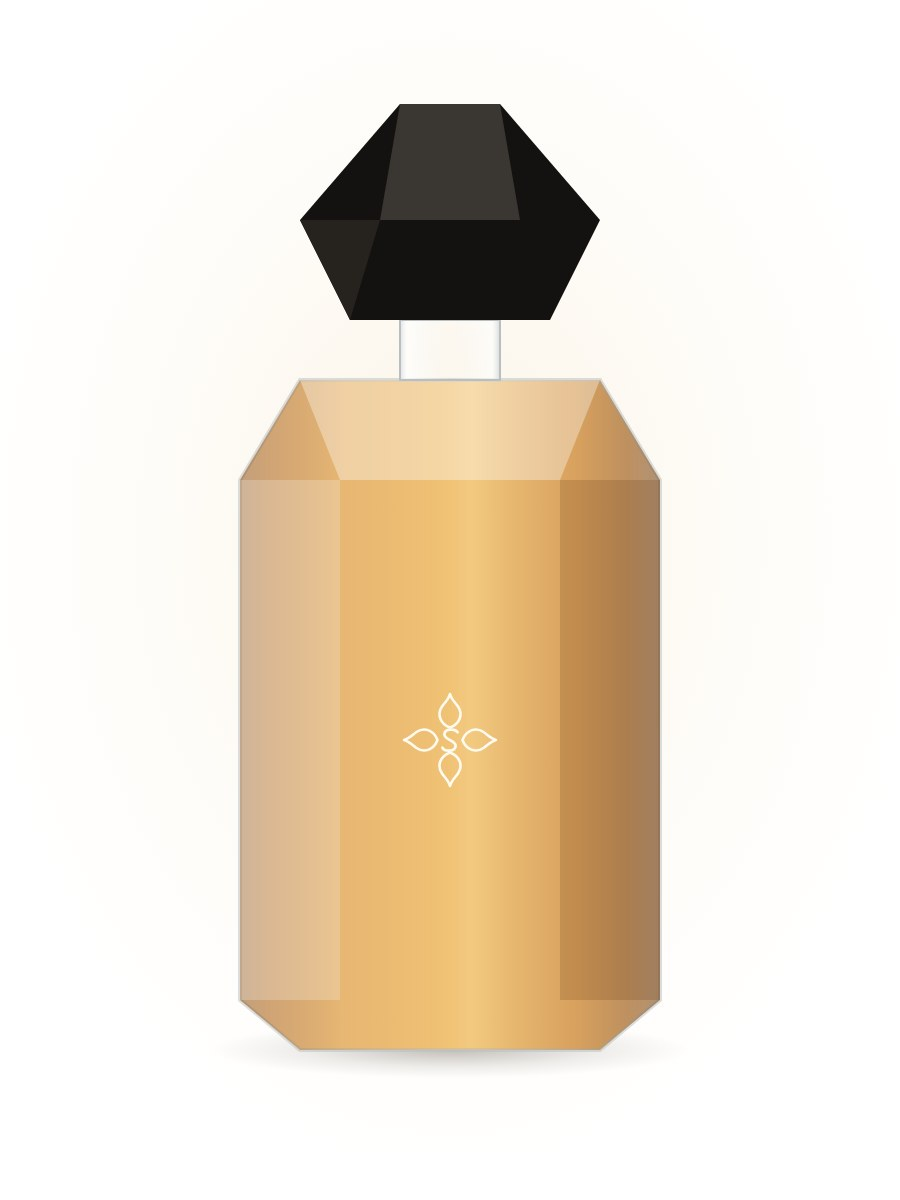
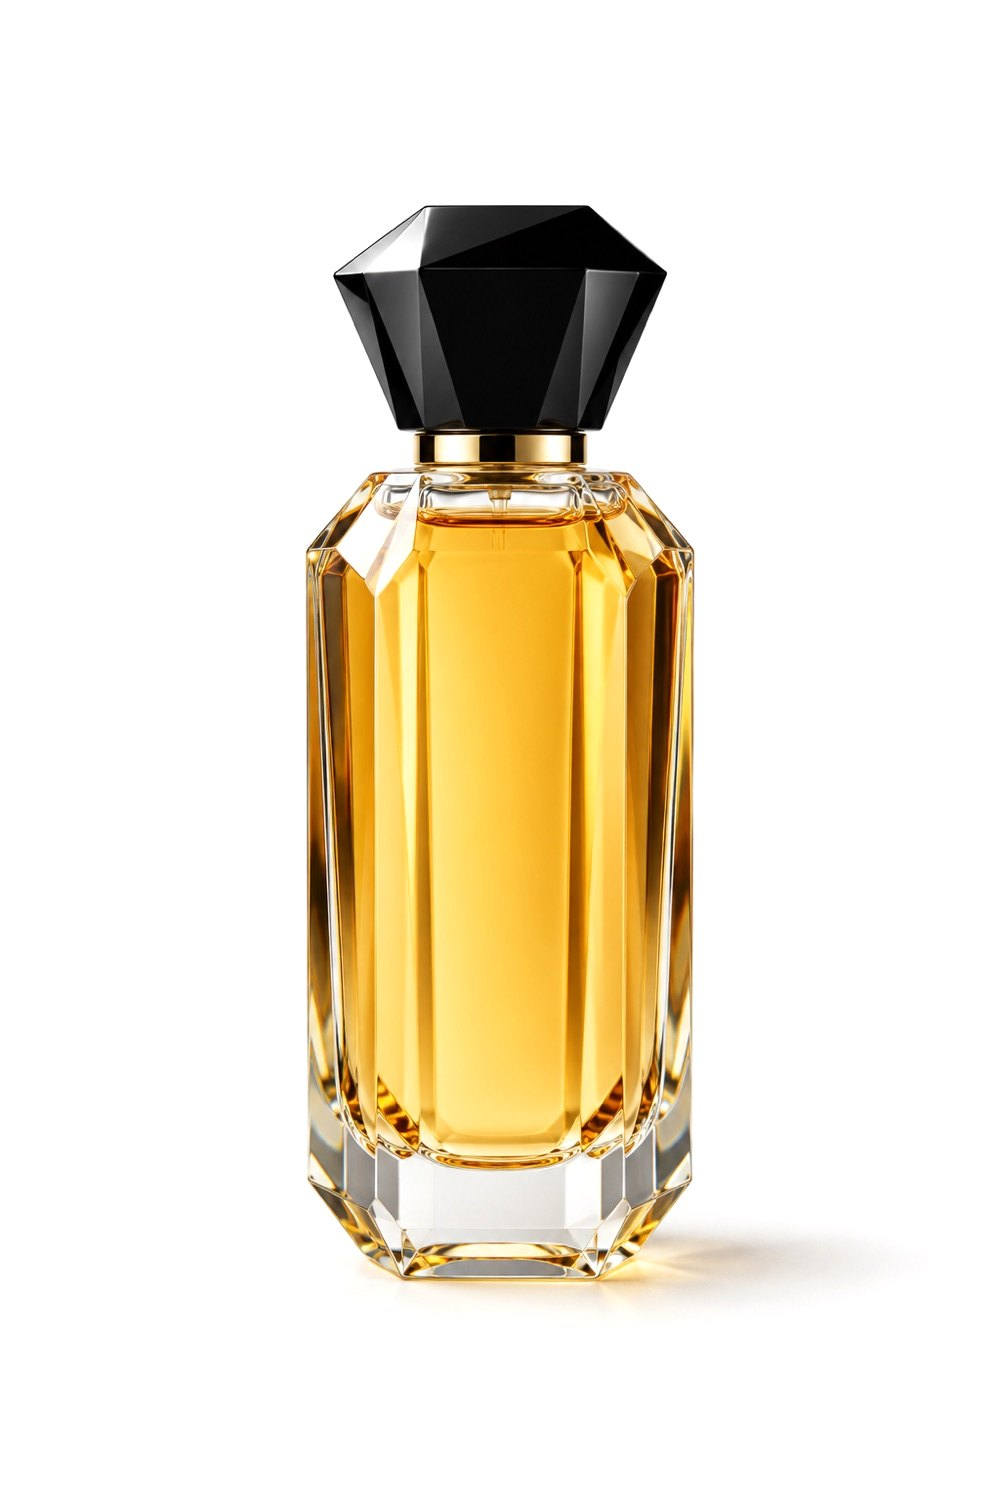
Photorealistic imagery: AI studio photography replaces drawn art
- Hero, kit, botanicals, bottles, emboss, textures and all kit tools are now
  photorealistic white-background product shots (generated via Figma MCP,
  gpt-image model), plus an atelier lifestyle shot for the Lab section
- Accord bottles print each accord name onto the photographed blank label
- Editorial layout: open columns, borderless photo tiles, real bottles in
  My Creations, photos blended into the white page (scripts/whiten.mjs)

Changed region(s): [[0.2489, 0.0617, 0.84, 0.8942]]

diff --git a/src/data/catalogue.ts b/src/data/catalogue.ts
@@ -55,14 +55,14 @@ export const PRODUCTS: Product[] = [
   { id: "bot-cedar", name: "Cedarwood chips", category: "botanicals", packSize: "20 g pouch", priceInr: 139, description: "Exploration-only sample for smelling and learning.", image: `${IMG}cedarwood.jpg`, imageAlt: "Cedarwood chips" },
   { id: "bot-rose", name: "Dried rose petals", category: "botanicals", packSize: "10 g pouch", priceInr: 149, description: "Exploration-only sample for smelling and learning.", image: `${IMG}rose-petals.jpg`, imageAlt: "Dried rose petals" },
   { id: "bot-cinnamon", name: "Cinnamon sticks", category: "botanicals", packSize: "6 quills", priceInr: 119, description: "Exploration-only sample for smelling and learning.", image: `${IMG}cinnamon.jpg`, imageAlt: "Cinnamon sticks" },
-  { id: "tool-pipettes", name: "Transfer pipettes", category: "tools", packSize: "Pack of 20", priceInr: 99, description: "Single-use transfer pipettes for guided exercises.", imageAlt: "Transfer pipettes", art: "pipettes" },
-  { id: "tool-blotters", name: "Blotter strips", category: "tools", packSize: "Pack of 50", priceInr: 89, description: "Smelling strips for evaluating on paper, not skin.", imageAlt: "Blotter strips", art: "blotters" },
-  { id: "tool-vials", name: "Mixing vials", category: "tools", packSize: "Set of 6", priceInr: 149, description: "Small glass vials with caps for organising samples.", imageAlt: "Mixing vials", art: "vials" },
-  { id: "tool-journal", name: "Formula journal", category: "tools", packSize: "64 pages", priceInr: 199, description: "Linen-bound journal for discovery notes.", imageAlt: "Formula journal", art: "journal" },
-  { id: "tool-beaker", name: "Measuring beaker, 10 ml", category: "tools", packSize: "Glass, graduated", priceInr: 129, description: "Read volumes in guided exercises.", imageAlt: "Measuring beaker", art: "beaker" },
-  { id: "tool-funnel", name: "Filling funnel", category: "tools", packSize: "Set of 2", priceInr: 59, description: "Fits the neck of the 10 ml bottles.", imageAlt: "Filling funnel", art: "funnel" },
-  { id: "bottle-pebble-10", name: "Pebble bottle, 10 ml", category: "bottles", packSize: "Empty, 10 ml", priceInr: 349, description: "The recommended SENTYAR silhouette concept, empty.", imageAlt: "Empty Pebble bottle" },
-  { id: "bottle-spray-5", name: "Mini atomiser, 5 ml", category: "bottles", packSize: "Set of 3, empty", priceInr: 179, description: "Empty travel atomisers.", imageAlt: "Empty mini atomisers" },
+  { id: "tool-pipettes", image: `${IMG}tool-pipettes.jpg`, name: "Transfer pipettes", category: "tools", packSize: "Pack of 20", priceInr: 99, description: "Single-use transfer pipettes for guided exercises.", imageAlt: "Transfer pipettes", art: "pipettes" },
+  { id: "tool-blotters", image: `${IMG}tool-blotters.jpg`, name: "Blotter strips", category: "tools", packSize: "Pack of 50", priceInr: 89, description: "Smelling strips for evaluating on paper, not skin.", imageAlt: "Blotter strips", art: "blotters" },
+  { id: "tool-vials", image: `${IMG}tool-vials.jpg`, name: "Mixing vials", category: "tools", packSize: "Set of 6", priceInr: 149, description: "Small glass vials with caps for organising samples.", imageAlt: "Mixing vials", art: "vials" },
+  { id: "tool-journal", image: `${IMG}tool-journal.jpg`, name: "Formula journal", category: "tools", packSize: "64 pages", priceInr: 199, description: "Linen-bound journal for discovery notes.", imageAlt: "Formula journal", art: "journal" },
+  { id: "tool-beaker", image: `${IMG}tool-beaker.jpg`, name: "Measuring beaker, 10 ml", category: "tools", packSize: "Glass, graduated", priceInr: 129, description: "Read volumes in guided exercises.", imageAlt: "Measuring beaker", art: "beaker" },
+  { id: "tool-funnel", image: `${IMG}tool-funnel.jpg`, name: "Filling funnel", category: "tools", packSize: "Set of 2", priceInr: 59, description: "Fits the neck of the 10 ml bottles.", imageAlt: "Filling funnel", art: "funnel" },
+  { id: "bottle-pebble-10", image: `${IMG}bottle-fluid.jpg`, name: "Pebble bottle, 10 ml", category: "bottles", packSize: "Empty, 10 ml", priceInr: 349, description: "The softly asymmetric SENTYAR silhouette concept with a stone cap, shown filled for reference.", imageAlt: "Empty Pebble bottle" },
+  { id: "bottle-spray-5", image: `${IMG}tool-sprays.jpg`, name: "Mini atomiser, 5 ml", category: "bottles", packSize: "Set of 3, empty", priceInr: 179, description: "Empty travel atomisers.", imageAlt: "Empty mini atomisers" },
   { id: "pack-citrus", name: "Citrus exploration pack", category: "packs", packSize: "Peel + card + blotters", priceInr: 299, description: "Guided citrus learning set pairing orange peel with the Citrus accord.", image: `${IMG}orange-peel.jpg`, imageAlt: "Citrus exploration pack" },
   { id: "pack-woods", name: "Woods & spice pack", category: "packs", packSize: "Cedar + cinnamon + cards", priceInr: 329, description: "Compare dry woods with warm spice.", image: `${IMG}cinnamon.jpg`, imageAlt: "Woods and spice exploration pack" },
   { id: "kit-v1", name: "SENTYAR Creator Kit V1", category: "packs", packSize: "Full kit", priceInr: 799, description: "Six demo accords, four botanicals, tools and learning material.", image: `${IMG}kit-open.jpg`, imageAlt: "Open SENTYAR Creator Kit" },

diff --git a/src/pages/Home.tsx b/src/pages/Home.tsx
@@ -3,8 +3,6 @@ import { ArrowRight, Compass } from "lucide-react";
 import { useApp } from "../app/store";
 import { Emblem, Wordmark } from "../components/Logo";
 import { Img, SectionHead } from "../components/ui";
-import { Bottle } from "../components/Bottle";
-import { Vessel } from "../components/Vessel";
 import { BOTANICALS, accordById } from "../data/ingredients";
 import { KIT, formatInr } from "../data/catalogue";
 import { DEFAULT_BLEND, computeVolumes, formatMl } from "../lib/formula";
@@ -43,7 +41,7 @@ export default function Home() {
             </div>
           </div>
           <figure className="hero__media">
-            <Img src="./assets/img/hero-stilllife.jpg" alt="A cushioned SENTYAR crystal bottle with amber liquid and a faceted gold cap on an ivory plinth beneath a gilded arch, with a rose, cedarwood, a halved orange and cinnamon sticks" eager ratio="546 / 490" />
+            <Img src="./assets/img/hero-stilllife.jpg" alt="A cushioned SENTYAR crystal bottle of amber eau de parfum with a faceted gold cap on a travertine plinth, beside a red rose, petals, a halved orange, cedarwood and cinnamon sticks" eager ratio="1 / 1" />
             <figcaption className="small muted">Concept still life. Bottle and labelling are design direction, not a finished product.</figcaption>
           </figure>
         </div>
@@ -97,7 +95,7 @@ export default function Home() {
       {/* KIT */}
       <section className="kit-band" aria-labelledby="kit-title">
         <div className="container kit-band__grid">
-          <Img src="./assets/img/kit-open.jpg" alt="The SENTYAR Creator Kit: an ivory box lined in gold with amber vials, a gilded measuring beaker, pipette, two larger bottles and an ingredients booklet, beside an ivory gift box tied with a gold ribbon" className="kit-band__img" ratio="604 / 311" />
+          <Img src="./assets/img/kit-open.jpg" alt="The SENTYAR Creator Kit open: an ivory linen box with six amber dropper bottles with gold collars, a gold-rimmed beaker, a pipette, a spray bottle and a booklet, beside an ivory gift box tied with a gold satin bow" className="kit-band__img" ratio="3 / 2" />
           <div className="kit-band__copy">
             <p className="eyebrow">The Creator Kit</p>
             <h2 id="kit-title" className="h2">Everything to begin, in one <em>ivory</em> box.</h2>
@@ -137,9 +135,9 @@ export default function Home() {
       {/* LAB */}
       <section className="section section--white" aria-labelledby="lab-title">
         <div className="container lab-teaser">
-          <div className="lab-teaser__visual" aria-hidden>
-            <Vessel blend={DEFAULT_BLEND} />
-          </div>
+          <figure className="lab-teaser__photo">
+            <Img src="./assets/img/atelier.jpg" alt="A perfumer's white marble worktable: a pipette releases a drop of golden oil into a gold-rimmed beaker among amber dropper bottles, blotters and dried rose petals" ratio="3 / 2" />
+          </figure>
           <div className="lab-teaser__copy">
             <p className="eyebrow">The Perfume Lab</p>
             <h2 id="lab-title" className="h2">Compose with <em>proportions</em>, not guesswork.</h2>
@@ -181,9 +179,9 @@ export default function Home() {
             </div>
           </div>
           <div className="creations-teaser__bottles" aria-hidden>
-            <Bottle concept="atelier" fill={0.55} name="My Sunday" accents={["#D9973F", "#B9AFA3"]} />
-            <Bottle concept="pebble" fill={0.72} name={latest?.name ?? "Orange Woods"} accents={(latest?.blend ?? DEFAULT_BLEND).map((e) => accordById(e.accordId).swatch)} />
-            <Bottle concept="facet" fill={0.6} name="After Hours" accents={["#8A6A4E", "#8C3F25"]} />
+            <img src="./assets/img/bottle-atelier.jpg" alt="" loading="lazy" />
+            <img src="./assets/img/bottle-orb.jpg" alt="" loading="lazy" />
+            <img src="./assets/img/bottle-facet.jpg" alt="" loading="lazy" />
           </div>
         </div>
       </section>

diff --git a/src/components/KitItems.tsx b/src/components/KitItems.tsx
@@ -202,25 +202,17 @@ export function AlcoholBottle({ label }: { label?: string }) {
   );
 }
 
-/** Amber accord bottle with a gilded cap and ivory SENTYAR label. */
+/** Amber accord bottle: studio photograph with the accord printed on its blank ivory label. */
 export function OilBottle({ name, color, ml = 5, label, className = "kit-svg" }: { name: string; color: string; ml?: number; label?: string; className?: string }) {
-  const ids = useIds();
   return (
-    <Svg label={label} vb="0 0 100 160" className={className}>
-      <Defs ids={ids} />
-      <Shadow ids={ids} rx={40} />
-      <rect x="29" y="6" width="42" height="34" rx="3" fill={`url(#${ids.goldH})`} />
-      {[13, 20, 27, 34].map((y) => <line key={y} x1="29" x2="71" y1={y} y2={y} stroke="#6d5128" strokeOpacity=".28" strokeWidth=".8" />)}
-      <path d="M34 40 H66 V46 C80 50 84 56 84 64 V146 C84 150 81 152 77 152 H23 C19 152 16 150 16 146 V64 C16 56 20 50 34 46 Z" fill={`url(#${ids.amber})`} />
-      <rect x="21" y="70" width="58" height="70" fill="#fffdf8" />
-      <rect x="24" y="73" width="52" height="64" fill="none" stroke={`url(#${ids.goldH})`} strokeWidth=".9" />
-      <rect x="24" y="73" width="52" height="3" fill={color} />
-      <Mark x={50} y={87} size={10} color="#a8844f" stroke={4.4} />
-      <text x="50" y="104" textAnchor="middle" fontSize="10" fontFamily="var(--font-serif)" fontWeight="600" fill="#14110d">{name}</text>
-      <text x="50" y="113" textAnchor="middle" fontSize="4.6" fontFamily="var(--font-sans)" fill="#6e675e" letterSpacing="1">DEMO ACCORD</text>
-      <line x1="38" x2="62" y1="120" y2="120" stroke={`url(#${ids.goldH})`} />
-      <text x="50" y="131" textAnchor="middle" fontSize="6.6" fontFamily="var(--font-sans)" fill="#14110d">{ml} ml</text>
-      <path d="M21 58 V66 M21 142 V146" stroke="#fff" strokeOpacity=".45" strokeWidth="2.5" strokeLinecap="round" />
+    <Svg label={label} vb="25 9 50 82" className={`${className} kit-photo`}>
+      <image href="./assets/img/oil-bottle.jpg" x="0" y="0" width="100" height="100" />
+      <rect x="42" y="55.3" width="16.2" height="0.9" fill={color} />
+      <g transform="translate(48.6 57.4)" style={{ color: "#a8844f" }}><Emblem size={2.8} stroke={5} /></g>
+      <text x="50" y="65.4" textAnchor="middle" fontSize="3.4" fontFamily="var(--font-serif)" fontWeight="600" fill="#14110d">{name}</text>
+      <text x="50" y="69.2" textAnchor="middle" fontSize="1.35" fontFamily="var(--font-sans)" fill="#6e675e" letterSpacing=".35">DEMO ACCORD</text>
+      <line x1="45.5" x2="54.5" y1="72" y2="72" stroke="#b08d57" strokeWidth=".25" />
+      <text x="50" y="76" textAnchor="middle" fontSize="2.2" fontFamily="var(--font-sans)" fill="#14110d">{ml} ml</text>
     </Svg>
   );
 }
@@ -292,8 +284,26 @@ export function PaperItem({ kind, label }: { kind: "cards" | "journal" | "guide"
   );
 }
 
-/** Map a kit tool id to its drawing. */
+const PHOTO: Record<string, string> = {
+  vials: "tool-vials", pipettes: "tool-pipettes", blotters: "tool-blotters", sprays: "tool-sprays", beaker: "tool-beaker",
+  funnel: "tool-funnel", alcohol: "tool-alcohol", cards: "tool-cards", journal: "tool-journal", guide: "tool-guide", qr: "tool-guide",
+};
+
+/** Map a kit tool id to its studio photograph (drawings remain as a fallback). */
 export function ToolArt({ id, label }: { id: string; label?: string }) {
+  const photo = PHOTO[id];
+  if (photo) {
+    return (
+      <Svg label={label} vb="8 8 84 84" className="kit-svg kit-photo kit-photo--tool">
+        <image href={`./assets/img/${photo}.jpg`} x="0" y="0" width="100" height="100" />
+      </Svg>
+    );
+  }
+  return <ToolDrawing id={id} label={label} />;
+}
+
+export function ToolDrawing({ id, label }: { id: string; label?: string }) {
+
   switch (id) {
     case "vials": return <MixingVials label={label} />;
     case "pipettes": return <Pipette label={label} />;

diff --git a/src/styles/royal.css b/src/styles/royal.css
@@ -262,3 +262,66 @@ body { background: #fff; }
 .dlg__head { position: relative; }
 .dlg__head::after { content: ""; position: absolute; left: 0; right: 0; bottom: -1px; height: 1px; background: var(--gold-line); }
 .welcome svg { color: var(--c-champagne); }
+
+/* ==========================================================
+   EDITORIAL PASS: photography first, no wireframe outlines
+   ========================================================== */
+.kit-photo image { image-rendering: auto; }
+@media (min-width: 960px) { .hero__grid { grid-template-columns: 5fr 7fr; } }
+.hero__media .media { aspect-ratio: 1 / 1; }
+.hero__media figcaption { margin-top: 0; }
+
+/* movements: open editorial columns instead of boxed cards */
+.movement { border: 0; padding: var(--s-3) 0 0; background: transparent; box-shadow: none !important; transform: none !important; }
+.movement::before { right: auto; width: 64px; height: 1px; }
+
+/* ingredient tiles: big photographs, no outlines */
+.ing-tile { border: 0; padding: 0; background: transparent; box-shadow: none !important; transform: none !important; gap: 4px; }
+.ing-tile .media { margin-bottom: 14px; overflow: hidden; }
+.ing-tile .media img { transition: transform 900ms var(--ease-out); }
+.ing-tile:hover .media img { transform: scale(1.06); }
+.ing-tile > * { padding-inline: 0; }
+
+/* lab teaser: lifestyle photograph */
+.lab-teaser__photo { margin: 0; }
+.lab-teaser__photo .media { box-shadow: var(--shadow-3); }
+@media (min-width: 900px) { .lab-teaser { grid-template-columns: 7fr 5fr; gap: var(--s-8); } }
+
+/* creations: real bottles */
+.creations-teaser__bottles { gap: 8px; align-items: end; }
+.creations-teaser__bottles img { width: 100%; aspect-ratio: 2 / 3; object-fit: cover; }
+.creations-teaser__bottles img:nth-child(2) { transform: translateY(-24px); }
+
+/* kit band and kit hero: let the photograph breathe */
+.kit-band__img, .kit-hero__img { border: 0 !important; box-shadow: none !important; }
+
+/* product cards: photograph on top, quiet card */
+.product.card { border-color: transparent; transition: box-shadow var(--t-base), border-color var(--t-base); }
+.product.card:hover { border-color: #efe5d3; box-shadow: var(--shadow-2); }
+.product .pthumb { aspect-ratio: 1 / 1; height: auto; }
+.product .pthumb img { object-fit: cover; }
+.product .pthumb--draw { background: #fff; }
+.product .pthumb--draw svg, .product .pthumb--draw .kit-svg { height: 86% !important; }
+
+/* flat lay: photos sit directly on white */
+.flatlay, .flatlay::before { border: 0; }
+.flatlay::before { display: none; }
+.flatlay .kit-svg { height: 150px; width: auto; }
+.flatlay__row--oils .kit-svg { height: 170px; }
+.included__toolart .kit-svg { height: 56px; width: 56px; }
+
+/* unboxing tiles: photo objects */
+.kit-item .kit-photo { height: 76px; width: auto; }
+.kit-item--vial .vial-svg { height: 104px; }
+.panel__art .kit-svg { height: 180px; }
+.dish img { object-fit: cover; transform: scale(1.18); }
+
+/* photographs shot on white melt into the page */
+.kit-photo image, .media img, .flatlay img, .dish img, .creations-teaser__bottles img, .pf-tile img, .pthumb img { mix-blend-mode: multiply; }
+.lab-teaser__photo .media img, img[src*="atelier"], img[src*="tex-"] { mix-blend-mode: normal; }
+svg.kit-photo { mix-blend-mode: multiply; }
+svg.kit-photo--tool { -webkit-mask-image: radial-gradient(ellipse 72% 72% at 50% 50%, #000 72%, transparent 100%); mask-image: radial-gradient(ellipse 72% 72% at 50% 50%, #000 72%, transparent 100%); }
+.media img, .pthumb img { -webkit-mask-image: none; }
+.kit-item__art { filter: none; height: 72px; }
+.kit-item--tool { grid-template-rows: 72px auto; }
+.kit-item__art .kit-svg { height: 72px; width: 72px; }

diff --git a/src/pages/Prefer.tsx b/src/pages/Prefer.tsx
@@ -25,15 +25,15 @@ const AXES: [string, string][] = [
 
 const ROUNDS: Round[] = [
   { axis: 0, a: { label: "Orange peel", img: `${IMG}orange-peel.jpg`, alt: "A curl of dried orange peel", w: { citrus: 2, musk: 1 } }, b: { label: "Cinnamon", img: `${IMG}cinnamon.jpg`, alt: "Rolled cinnamon bark quills", w: { vanilla: 1, spicy: 2 } } },
-  { axis: 1, a: { label: "Rose petals", img: `${IMG}rose-petals.jpg`, alt: "Crimson rose petals with droplets", w: { rose: 2 } }, b: { label: "Cedarwood", img: `${IMG}cedarwood.jpg`, alt: "Strips of reddish cedarwood", w: { woody: 2 } } },
-  { axis: 2, a: { label: "Clear glass", img: `${IMG}tex-glass.jpg`, alt: "Rippled clear glass texture", w: { citrus: 1, musk: 1 } }, b: { label: "Natural stone", img: `${IMG}tex-stone.jpg`, alt: "Pale mineral stone texture", w: { woody: 1, vanilla: 1 } } },
+  { axis: 1, a: { label: "Rose petals", img: `${IMG}rose-petals.jpg`, alt: "Dried crimson rose petals", w: { rose: 2 } }, b: { label: "Cedarwood", img: `${IMG}cedarwood.jpg`, alt: "Reddish cedarwood chips", w: { woody: 2 } } },
+  { axis: 2, a: { label: "Clear glass", img: `${IMG}tex-glass.jpg`, alt: "Rippled clear glass texture", w: { citrus: 1, musk: 1 } }, b: { label: "Natural stone", img: `${IMG}tex-stone.jpg`, alt: "Pale ivory travertine texture", w: { woody: 1, vanilla: 1 } } },
   { axis: 3, a: { label: "The Fluid", img: `${IMG}bottle-fluid.jpg`, alt: "An organic, asymmetric glass bottle with a stone cap", w: { rose: 1, musk: 1 } }, b: { label: "The Facet", img: `${IMG}bottle-facet.jpg`, alt: "A tall faceted glass bottle with an angular cap", w: { woody: 1, spicy: 1 } } },
   { axis: 4, a: { label: "Musk accord", vial: "musk", alt: "Musk accord vial", w: { musk: 2 } }, b: { label: "Spicy accord", vial: "spicy", alt: "Spicy accord vial", w: { spicy: 2 } } },
   { axis: 5, a: { label: "Matte black", img: `${IMG}tex-matte.jpg`, alt: "Soft-touch matte black board", w: { musk: 1, woody: 1 } }, b: { label: "Champagne foil", img: `${IMG}tex-foil.jpg`, alt: "Brushed champagne foil", w: { vanilla: 1, spicy: 1, rose: 1 } } },
   { axis: 0, a: { label: "Citrus accord", vial: "citrus", alt: "Citrus accord vial", w: { citrus: 2 } }, b: { label: "Vanilla accord", vial: "vanilla", alt: "Vanilla accord vial", w: { vanilla: 2 } } },
   { axis: 1, a: { label: "Rose accord", vial: "rose", alt: "Rose accord vial", w: { rose: 2 } }, b: { label: "Woody accord", vial: "woody", alt: "Woody accord vial", w: { woody: 2 } } },
   { axis: 3, a: { label: "The Orb", img: `${IMG}bottle-orb.jpg`, alt: "A rounded glass bottle with a slim gold cap", w: { rose: 1, vanilla: 1 } }, b: { label: "The Atelier", img: `${IMG}bottle-atelier.jpg`, alt: "A classic ribbed glass bottle with a black cap", w: { woody: 1, citrus: 1 } } },
-  { axis: 5, a: { label: "Blind emboss", img: `${IMG}emboss.jpg`, alt: "The S-flower emblem embossed on ivory board", w: { musk: 1, woody: 1 } }, b: { label: "Still life", img: `${IMG}hero-stilllife.jpg`, alt: "A crystal bottle on an ivory plinth among rose, cedarwood, orange and cinnamon", w: { spicy: 1, citrus: 1, vanilla: 1 } } },
+  { axis: 5, a: { label: "Blind emboss", img: `${IMG}emboss.jpg`, alt: "The S-flower emblem embossed on ivory board", w: { musk: 1, woody: 1 } }, b: { label: "Still life", img: `${IMG}hero-stilllife.jpg`, alt: "A crystal bottle on a travertine plinth among rose, orange, cedarwood and cinnamon", w: { spicy: 1, citrus: 1, vanilla: 1 } } },
 ];
 
 const KEY = "prefer";

diff --git a/src/data/ingredients.ts b/src/data/ingredients.ts
@@ -14,7 +14,7 @@ export const BOTANICALS: Botanical[] = [
     botanicalName: "Citrus sinensis",
     materialType: "Dried fruit peel",
     image: `${IMG}orange-peel.jpg`,
-    imageAlt: "A curl of dried orange peel with a glossy, textured rind",
+    imageAlt: "Curls of dried orange peel and two dried orange wheels in a gold-rimmed porcelain dish",
     descriptors: ["bright", "zesty", "slightly bitter", "sweet"],
     sensory:
       "Often described as bright and zesty with a soft, sweet edge and a faint bitterness from the pith. Drying can mute the sparkle of fresh peel.",
@@ -35,7 +35,7 @@ export const BOTANICALS: Botanical[] = [
     commonName: "Cedarwood",
     materialType: "Wood chips",
     image: `${IMG}cedarwood.jpg`,
-    imageAlt: "Stacked strips of cedarwood showing deep reddish-brown grain",
+    imageAlt: "Reddish cedarwood chips and shavings with visible grain in a gold-rimmed porcelain dish",
     descriptors: ["dry", "pencil-shaving", "woody", "calm"],
     sensory:
       "Often described as dry and woody, reminiscent of pencil shavings and a quiet wooden drawer.",
@@ -56,7 +56,7 @@ export const BOTANICALS: Botanical[] = [
     botanicalName: "Rosa spp.",
     materialType: "Dried flower petals",
     image: `${IMG}rose-petals.jpg`,
-    imageAlt: "Deep crimson rose petals with fine droplets on their surface",
+    imageAlt: "Dried deep crimson rose petals and buds in a gold-rimmed porcelain dish",
     descriptors: ["soft", "floral", "tea-like", "powdery"],
     sensory:
       "Often described as soft and floral with a tea-like, slightly powdery character once dried, quieter than a fresh rose.",
@@ -76,7 +76,7 @@ export const BOTANICALS: Botanical[] = [
     commonName: "Cinnamon bark",
     materialType: "Dried bark quills",
     image: `${IMG}cinnamon.jpg`,
-    imageAlt: "Rolled cinnamon bark quills with a warm brown, papery surface",
+    imageAlt: "A bundle of rolled cinnamon quills tied with twine on a gold-rimmed porcelain plate",
     descriptors: ["warm", "spicy", "sweet", "woody"],
     sensory: "Often described as warm, sweet and spicy with a dry, woody undertone.",
     association: "Commonly associated with spicy and warm fragrance families.",

diff --git a/src/pages/KitDetail.tsx b/src/pages/KitDetail.tsx
@@ -16,7 +16,7 @@ export default function KitDetail() {
       <section className="container section--tight">
         <nav aria-label="Breadcrumb" className="crumbs"><Link to="/">Home</Link><span aria-hidden>/</span><Link to="/kits">Explore Kits</Link><span aria-hidden>/</span><span aria-current="page">Creator Kit V1</span></nav>
         <div className="kit-hero">
-          <Img src="./assets/img/kit-open.jpg" alt="The SENTYAR Creator Kit opened: amber vials, beaker, pipette, two larger bottles and an ingredients booklet in gold-lined ivory compartments" className="kit-hero__img" ratio="604 / 311" eager />
+          <Img src="./assets/img/kit-open.jpg" alt="The SENTYAR Creator Kit opened: six amber dropper bottles with gold collars, a gold-rimmed beaker, a pipette, a spray bottle and a booklet in an ivory linen box" className="kit-hero__img" ratio="3 / 2" eager />
           <div className="kit-hero__copy">
             <p className="eyebrow">Creator Kit · V1</p>
             <h1 className="h1">{KIT.name}</h1>

diff --git a/src/pages/Brand.tsx b/src/pages/Brand.tsx
@@ -132,7 +132,7 @@ export default function Brand() {
         <div className="brand-grid brand-grid--4" style={{ marginTop: 24 }}>
           {["tex-matte", "tex-glass", "tex-stone", "tex-foil"].map((t) => <Img key={t} src={`./assets/img/${t}.jpg`} alt={`Material texture: ${t.replace("tex-", "")}`} ratio="1/1" />)}
         </div>
-        <Img src="./assets/img/emboss.jpg" alt="The S-flower emblem blind-embossed and traced in champagne foil on ivory board" ratio="268 / 311" className="emboss-img" />
+        <Img src="./assets/img/emboss.jpg" alt="The S-flower emblem blind-embossed and traced in champagne foil on ivory board" ratio="4 / 5" className="emboss-img" />
       </section>
     </>
   );

diff --git a/src/pages/Kits.tsx b/src/pages/Kits.tsx
@@ -14,7 +14,7 @@ export default function Kits() {
       </header>
       <div className="kit-list">
         <article className="kit-card card">
-          <Img src="./assets/img/kit-open.jpg" alt="The SENTYAR Creator Kit opened to show vials, beaker, pipette and booklet" ratio="604 / 311" />
+          <Img src="./assets/img/kit-open.jpg" alt="The SENTYAR Creator Kit opened to show vials, beaker, pipette and booklet" ratio="3 / 2" />
           <div className="kit-card__body">
             <div className="row row--between">
               <h2 className="h3">{KIT.name}</h2>
